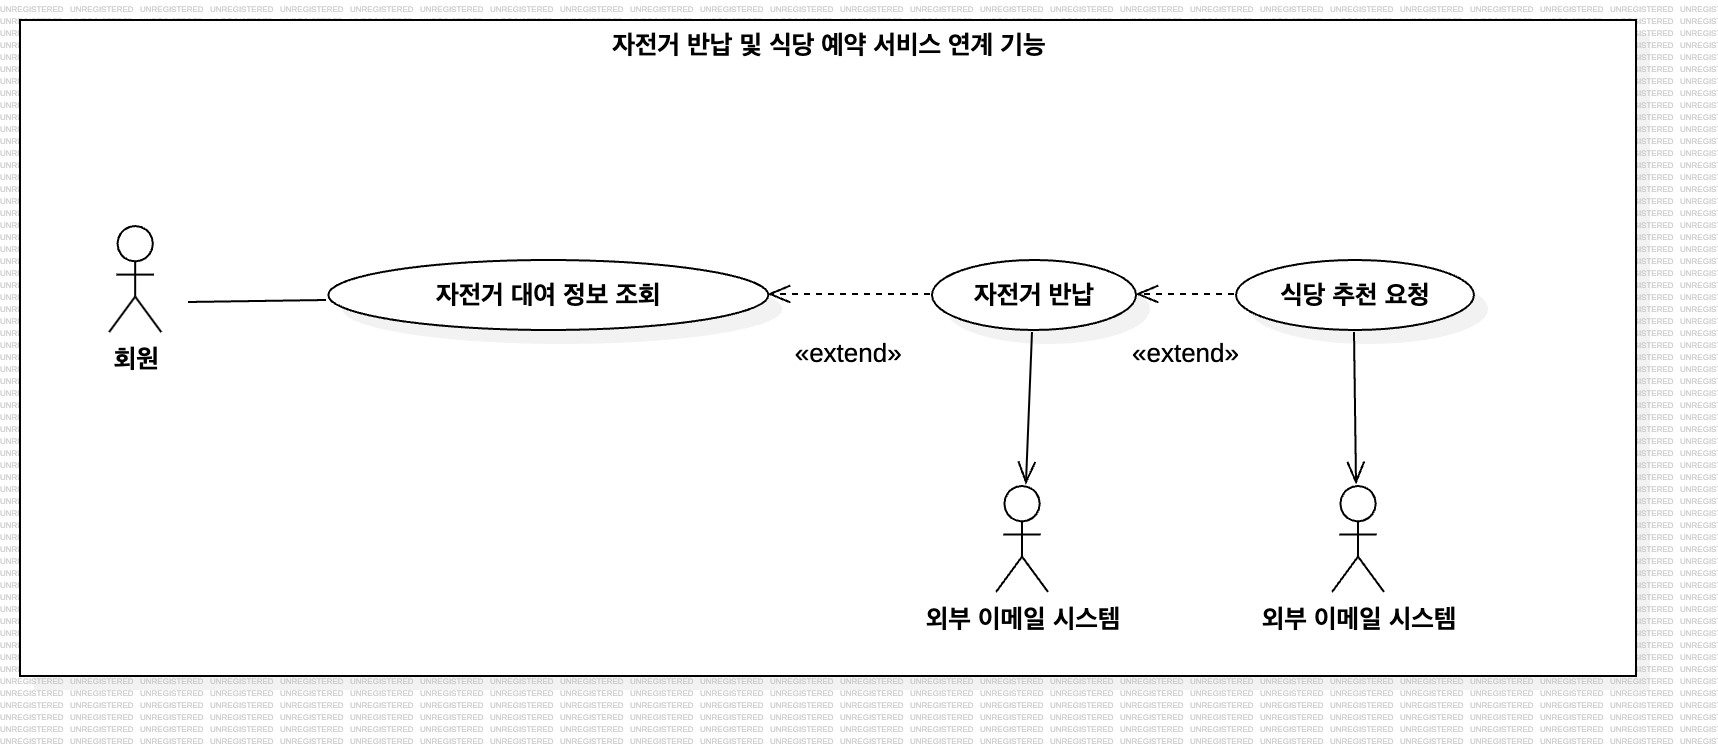
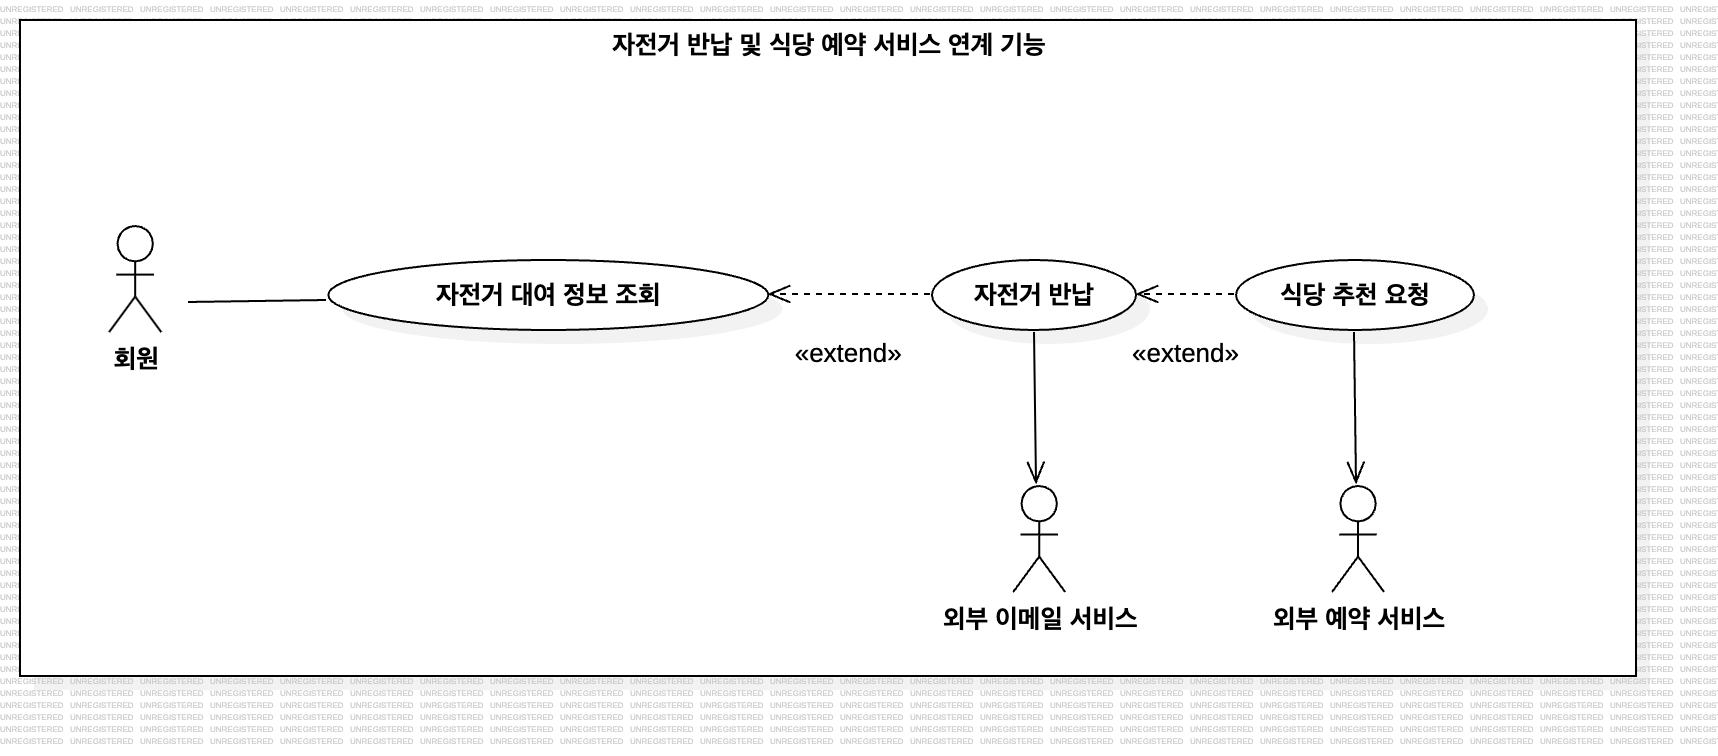
ㅁㅁㄴㅇㄹㄴㅁㅇㄹ

Changed region(s): [[0.5244, 0.5476, 0.6787, 0.8519], [0.7404, 0.791, 0.8638, 0.8519], [0.5861, 0.4563, 0.617, 0.5172]]

diff --git a/PeteVoid/petevoid_usecase_description.md b/PeteVoid/petevoid_usecase_description.md
@@ -1,7 +1,9 @@
 [ 자전거 반납 및 식당 예약 서비스 연계 기능 UseCase Description ]
 
-| Actor Action                                                | System Response                                                                                                                         |
-| ----------------------------------------------------------- | --------------------------------------------------------------------------------------------------------------------------------------- |
-| 1. None                                                     | 2. 대여 정보 화면을 보여준다                                                                                                            |
-| 3. 회원이 대여 정보 조회 화면에서 반납할 자전거를 선택한다. | 4. 선택한 자전거 반납이 처리된다. 해당 자전거에 예약 대기 중인 회원이 있는 경우 대기 1순위 회원에게 이메일로 예약 완료 알림을 전송한다. |
-| 5. 회원이 식당 추천을 요청한다.                             | 6. 외부 예약 서비스로 연결한다                                                                                                          |
+| Actor Action(회원)                                          | Actor Action(이메일 시스템)            | Actor Action(예약 시스템)                                       | System Response                                                                                                                                                                            |
+| ----------------------------------------------------------- | -------------------------------------- | --------------------------------------------------------------- | ------------------------------------------------------------------------------------------------------------------------------------------------------------------------------------------ |
+| 1. None                                                     |                                        |                                                                 | 2. 대여 정보 화면을 보여준다.                                                                                                                                                              |
+| 3. 회원이 대여 정보 조회 화면에서 반납할 자전거를 선택한다. |                                        |                                                                 | 4. 선택한 자전거 반납이 처리되고 대여 시간에 따른 요금을 자동으로 결제한다. 해당 자전거에 예약한 회원이 있는 경우에 대기 1순위 회원에게 예약되었다는 알림을 보낼 이메일 시스템을 호출한다. |
+|                                                             | 5. 이메일로 예약 완료 알림을 전송한다. |                                                                 |
+| 6.(optional) 회원이 식당 추천을 요청한다.                   |                                        |                                                                 | 7. 외부 예약 서비스로 연결한다                                                                                                                                                             |
+|                                                             |                                        | 8. 사용자 위치 정보를 기반으로 근처 식당을 추천받아서 예약한다. |

diff --git a/PeteVoid/petevoid_requirement_list.md b/PeteVoid/petevoid_requirement_list.md
@@ -1,3 +1,3 @@
-| No. | Requirement                                                                                                                                                                                   | Use Case(s)                               |
-| --- | --------------------------------------------------------------------------------------------------------------------------------------------------------------------------------------------- | ----------------------------------------- |
-| 8   | 회원은 대여중인 자전거를 지정된 대여소에 반납할 수 있다. 반납 후, 사용자가 원하는 경우 시스템은 사용자의 위치 기반으로 근처 식당을 추천하는 외부 예약 서비스와 연동하여 식당 예약이 가능하다. | 자전거 반납 및 식당 예약 서비스 연계 기능 |
+| No. | Requirement                                                                                                                                                                                                                          | Use Case(s)                               |
+| --- | ------------------------------------------------------------------------------------------------------------------------------------------------------------------------------------------------------------------------------------ | ----------------------------------------- |
+| 8   | 회원은 대여중인 자전거를 지정된 대여소에 반납할 수 있다. 반납 후, 사용 시간에 따라 요금이 자동 결제되고, 사용자가 원하는 경우 시스템은 사용자의 위치 기반으로 근처 식당을 추천하는 외부 예약 서비스와 연동하여 식당 예약이 가능하다. | 자전거 반납 및 식당 예약 서비스 연계 기능 |
